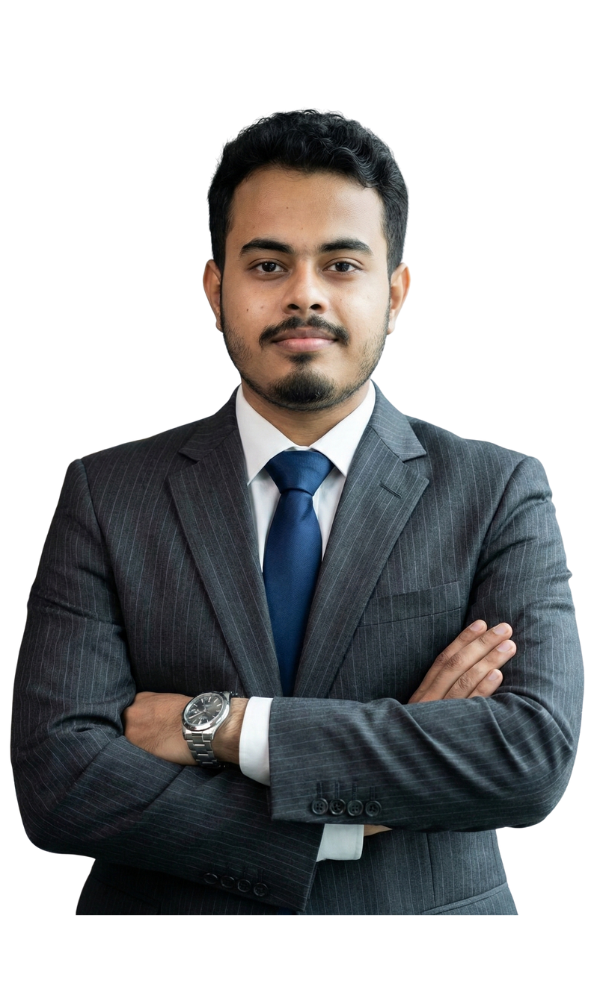
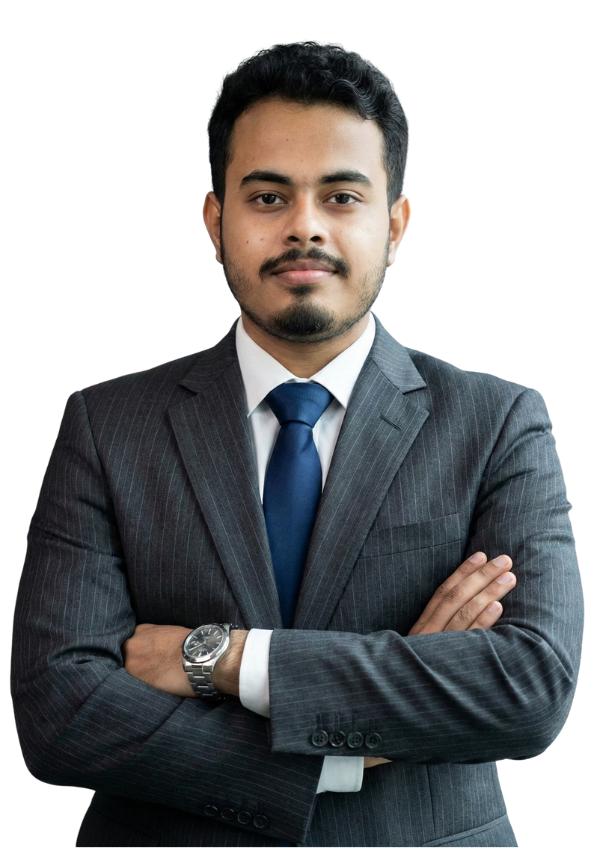
edited

diff --git a/app/components/TeamCard.tsx b/app/components/TeamCard.tsx
@@ -2,7 +2,6 @@
 
 import { TeamMember } from "@/data/team";
 import { Github, Linkedin, Phone, Briefcase, Instagram, Mail } from "lucide-react";
-import Image from "next/image";
 import { motion } from "framer-motion";
 import { cn } from "@/app/lib/utils";
 
@@ -67,15 +66,16 @@ export default function TeamCard({ member }: { member: TeamMember }) {
                 </div>
 
                 {/* 3. Main Character Image */}
-                <div className="absolute inset-x-4 top-24 bottom-20 md:bottom-24 z-10 overflow-hidden rounded-sm">
+                <div className="absolute inset-x-4 top-[72px] bottom-[60px] md:top-24 md:bottom-24 z-10 overflow-hidden rounded-sm">
                     {imageSrc ? (
                         <div className="relative w-full h-full">
-                            <Image
+                            <img
                                 src={imageSrc}
                                 alt={member.name}
-                                fill
-                                className="object-cover object-top transition-transform duration-500 group-hover:scale-105"
+                                className="w-full h-full object-cover object-top transition-transform duration-500 group-hover:scale-105"
+                                loading="lazy"
                             />
+
                             {/* Gradient Overlay at bottom of image for text readability */}
                             <div className="absolute inset-x-0 bottom-0 h-24 bg-gradient-to-t from-[#0a0f18] to-transparent" />
                         </div>

diff --git a/next.config.ts b/next.config.ts
@@ -1,22 +1,12 @@
 import type { NextConfig } from "next";
 
 const nextConfig: NextConfig = {
+  output: "export",
+
   images: {
-    remotePatterns: [
-      {
-        protocol: "https",
-        hostname: "avatars.githubusercontent.com",
-      },
-      {
-        protocol: "https",
-        hostname: "drive.google.com",
-      },
-      {
-        protocol: "https",
-        hostname: "*.googleusercontent.com",
-      },
-    ],
+    unoptimized: true,
   },
 };
 
 export default nextConfig;
+
